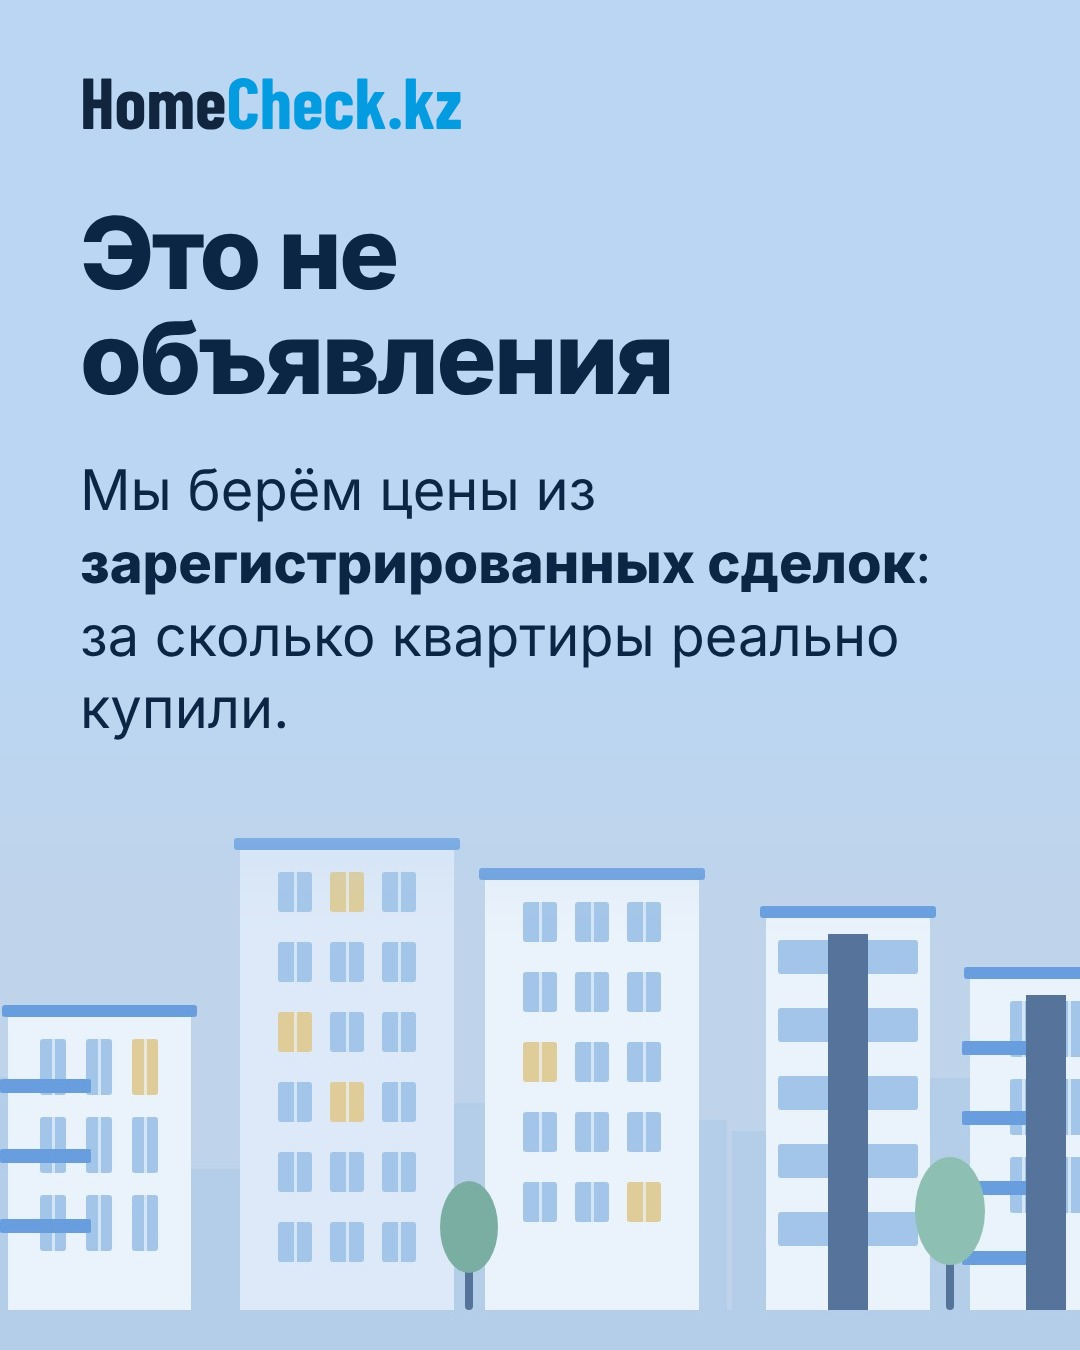
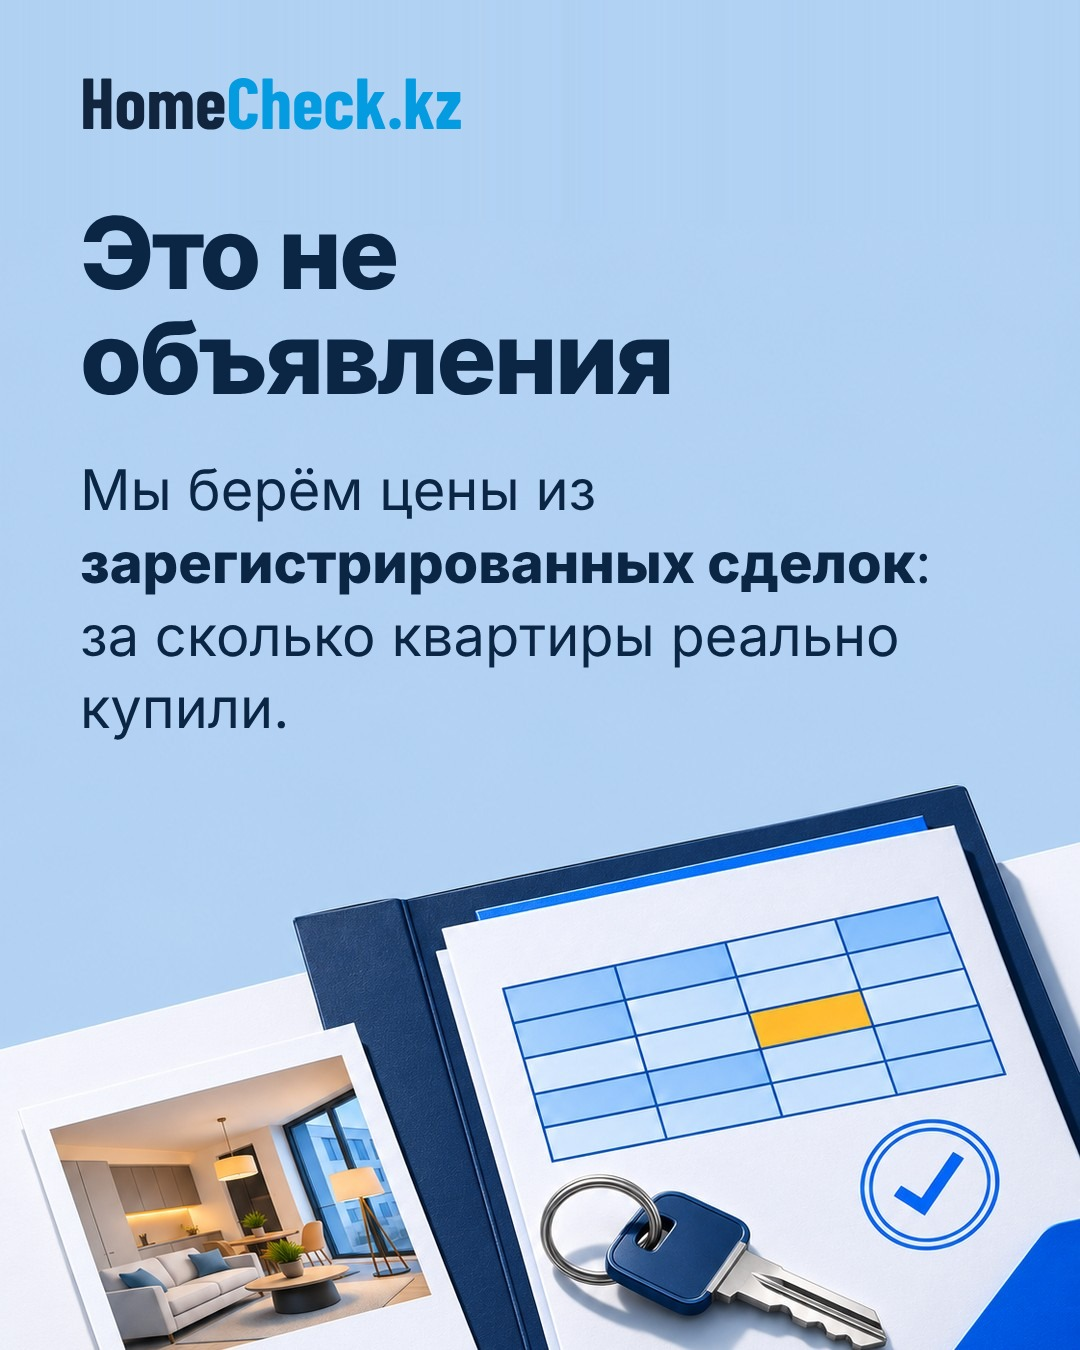
Post 07.11: slides v2 with ChatGPT illustrations
Claude-Session: https://claude.ai/code/session_01YPTRhbcfXRBnSeVtmn8ipe

Changed region(s): [[0.0, 0.56, 1.0, 1.0]]

diff --git a/posts/2026-11-07-pochemu-doveryat/build.py b/posts/2026-11-07-pochemu-doveryat/build.py
@@ -1,42 +1,73 @@
-"""Post 2026-11-07: «Почему нашим данным можно доверять» (витрина, закрепить)."""
-import sys, pathlib
+"""Post 2026-11-07: «Почему нашим данным можно доверять» (витрина, закрепить).
+v2: картинки сгенерированы в ChatGPT (src/01-06.png), текст и логотип — шаблоном.
+Картинка занимает весь слайд; если текст доходит до сцены, картинка сдвигается вниз,
+а сверху достраивается её же небо. Картинки не приглушаем: пост закреплённый, он ярче остальных."""
+import sys, pathlib, io
 sys.path.insert(0, str(pathlib.Path(__file__).resolve().parents[2] / 'templates'))
+import numpy as np
 from PIL import Image
 from playwright.sync_api import sync_playwright
 from render import *
-import illustrations as il
 
 OUT = pathlib.Path(__file__).resolve().parent
-PH = HERE.parent / 'assets' / 'photos'
 BOX = '<div class="box" style="top:200px">'
+GAP = 40  # min space between text and the scene
+
+INNER = [
+    logo(64) + BOX + '<h1 class="t">Почему нашим данным можно доверять</h1><span class="p acc">Листайте →</span></div>',
+    logo(64) + BOX + '<h2 class="t">Это не объявления</h2>'
+      '<p class="p">Мы берём цены из <b>зарегистрированных сделок</b>: за сколько квартиры реально купили.</p></div>',
+    logo(64) + '<div class="box" style="top:200px;gap:24px">'
+      '<p class="lb">Сделки с жильём регистрирует государство</p>'
+      '<p class="num">27 096</p>'
+      '<p class="p">сделок с квартирами за сентябрь 2026 в&nbsp;Казахстане</p>'
+      '<p class="lb">Источник: Бюро национальной статистики</p></div>',
+    logo(64) + BOX + '<h2 class="t">Сравниваем с этим же домом</h2>'
+      '<p class="p">Не со средней ценой по городу, а <b>с похожими квартирами в том же доме</b>.</p></div>',
+    logo(64) + BOX + '<h2 class="t">Проверьте нас на своей квартире</h2>'
+      '<p class="p">Введите адрес, где живёте, и мы покажем, <b>когда вы её купили</b>.</p>'
+      '<p class="lb">Если сделка есть в наших данных</p></div>',
+    logo(64) + BOX + '<h2 class="t">Проверьте квартиру до покупки</h2>'
+      '<p class="p">Введите адрес на <b>homecheck.kz</b></p></div>',
+]
+
+
+def scene_top(img):
+    a = np.asarray(img).astype(int)
+    sky = a[5:40].reshape(-1, 3).mean(0)
+    rows = (np.abs(a - sky).sum(2) > 40).mean(1)
+    return int(np.argmax(rows > 0.01))
+
+
+SCALE = {4: 0.85}  # isolated object on plain sky: shrink instead of cutting off the lower floor
+
+
+def fit(img, text_bottom, scale=1.0):
+    """1080x1350 background: image scaled to width, shifted down if the text reaches the scene."""
+    img = img.convert('RGB').resize((1080, round(img.size[1] * 1080 / img.size[0])), Image.LANCZOS)
+    if scale != 1.0:  # shrink and extend edges with the image's own border pixels
+        w, h = round(1080 * scale), round(img.size[1] * scale)
+        small = np.asarray(img.resize((w, h), Image.LANCZOS))
+        l = (1080 - w) // 2
+        img = Image.fromarray(np.pad(small, ((img.size[1] - h, 0), (l, 1080 - w - l), (0, 0)), mode='edge'))
+    img = img.crop((0, img.size[1] - 1350, 1080, img.size[1])) if img.size[1] > 1350 else img
+    shift = max(0, int(text_bottom + GAP - scene_top(img)))
+    if shift:
+        sky = img.crop((0, 0, 1080, 1)).resize((1080, shift))
+        out = Image.new('RGB', (1080, 1350))
+        out.paste(sky, (0, 0)); out.paste(img.crop((0, 0, 1080, 1350 - shift)), (0, shift))
+        img = out
+    return img, shift
+
 
 with sync_playwright() as p:
     b = p.chromium.launch(); pg = b.new_page()
-    def scene(**kw):
-        return lambda hh: svg_to_image(il.city(h=hh, **kw), 1080, hh, pg)
-    I = lambda inner, src, h=1350: compose(inner, src, ILLUS, pg, h=h)
-    F = lambda inner, name, h=1350: compose(inner, Image.open(PH / name), PHOTO, pg, h=h)
-    S = [
-        I(logo(64) + BOX + '<h1 class="t">Почему нашим данным можно доверять</h1>'
-          '<span class="p acc">Листайте →</span></div>', scene(seed=7, magnifier=True)),
-        I(logo(64) + BOX + '<h2 class="t">Это не объявления</h2>'
-          '<p class="p">Мы берём цены из <b>зарегистрированных сделок</b>: за сколько квартиры реально купили.</p></div>',
-          scene(seed=14)),
-        I(logo(64) + '<div class="box" style="top:250px;gap:28px">'
-          '<p class="lb">Сделки с жильём регистрирует государство</p>'
-          '<p class="num">27 096</p>'
-          '<p class="p">сделок с квартирами за сентябрь 2026 в&nbsp;Казахстане</p>'
-          '<p class="lb">Источник: Бюро национальной статистики</p></div>', scene(seed=11)),
-        I(logo(64) + BOX + '<h2 class="t">Сравниваем с этим же домом</h2>'
-          '<p class="p">Не со средней ценой по городу, а <b>с похожими квартирами в том же доме</b>.</p></div>',
-          scene(seed=3, mirror=True)),
-        I(logo(64) + BOX + '<h2 class="t">Проверьте нас на своей квартире</h2>'
-          '<p class="p">Введите адрес, где живёте, и мы покажем, <b>когда вы её купили</b>.</p>'
-          '<p class="lb">Если сделка есть в наших данных</p></div>', scene(seed=5, magnifier=True, mirror=True)),
-        I(logo(64) + BOX + '<h2 class="t">Проверьте квартиру до покупки</h2>'
-          '<p class="p">Введите адрес на <b>homecheck.kz</b></p></div>', scene(seed=21)),
-    ]
-    for k, html in enumerate(S, 1):
-        render(html, OUT / f'{k:02d}.jpg', pg)
+    for k, inner in enumerate(INNER, 1):
+        pg.set_viewport_size({'width': 1080, 'height': 1350}); pg.set_content(slide(inner))
+        pg.evaluate('document.fonts.ready'); pg.wait_for_timeout(100)
+        bottom = pg.evaluate("Math.max(...[...document.querySelectorAll('.box')].map(e => e.getBoundingClientRect().bottom))")
+        bg, shift = fit(Image.open(OUT / 'src' / f'{k:02d}.png'), bottom, SCALE.get(k, 1.0))
+        print(k, 'text bottom', int(bottom), 'shift', shift)
+        render(slide(inner, img=data_uri(bg), img_h=1350), OUT / f'{k:02d}.jpg', pg)
     b.close()
 print('ok')

diff --git a/posts/2026-11-07-pochemu-doveryat/build_v1_code_illustrations.py b/posts/2026-11-07-pochemu-doveryat/build_v1_code_illustrations.py
@@ -1,0 +1,42 @@
+"""Post 2026-11-07: «Почему нашим данным можно доверять» (витрина, закрепить)."""
+import sys, pathlib
+sys.path.insert(0, str(pathlib.Path(__file__).resolve().parents[2] / 'templates'))
+from PIL import Image
+from playwright.sync_api import sync_playwright
+from render import *
+import illustrations as il
+
+OUT = pathlib.Path(__file__).resolve().parent
+PH = HERE.parent / 'assets' / 'photos'
+BOX = '<div class="box" style="top:200px">'
+
+with sync_playwright() as p:
+    b = p.chromium.launch(); pg = b.new_page()
+    def scene(**kw):
+        return lambda hh: svg_to_image(il.city(h=hh, **kw), 1080, hh, pg)
+    I = lambda inner, src, h=1350: compose(inner, src, ILLUS, pg, h=h)
+    F = lambda inner, name, h=1350: compose(inner, Image.open(PH / name), PHOTO, pg, h=h)
+    S = [
+        I(logo(64) + BOX + '<h1 class="t">Почему нашим данным можно доверять</h1>'
+          '<span class="p acc">Листайте →</span></div>', scene(seed=7, magnifier=True)),
+        I(logo(64) + BOX + '<h2 class="t">Это не объявления</h2>'
+          '<p class="p">Мы берём цены из <b>зарегистрированных сделок</b>: за сколько квартиры реально купили.</p></div>',
+          scene(seed=14)),
+        I(logo(64) + '<div class="box" style="top:250px;gap:28px">'
+          '<p class="lb">Сделки с жильём регистрирует государство</p>'
+          '<p class="num">27 096</p>'
+          '<p class="p">сделок с квартирами за сентябрь 2026 в&nbsp;Казахстане</p>'
+          '<p class="lb">Источник: Бюро национальной статистики</p></div>', scene(seed=11)),
+        I(logo(64) + BOX + '<h2 class="t">Сравниваем с этим же домом</h2>'
+          '<p class="p">Не со средней ценой по городу, а <b>с похожими квартирами в том же доме</b>.</p></div>',
+          scene(seed=3, mirror=True)),
+        I(logo(64) + BOX + '<h2 class="t">Проверьте нас на своей квартире</h2>'
+          '<p class="p">Введите адрес, где живёте, и мы покажем, <b>когда вы её купили</b>.</p>'
+          '<p class="lb">Если сделка есть в наших данных</p></div>', scene(seed=5, magnifier=True, mirror=True)),
+        I(logo(64) + BOX + '<h2 class="t">Проверьте квартиру до покупки</h2>'
+          '<p class="p">Введите адрес на <b>homecheck.kz</b></p></div>', scene(seed=21)),
+    ]
+    for k, html in enumerate(S, 1):
+        render(html, OUT / f'{k:02d}.jpg', pg)
+    b.close()
+print('ok')
